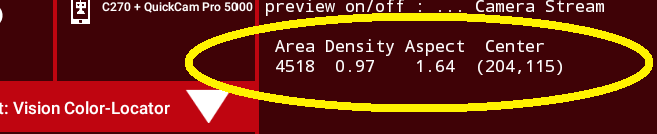
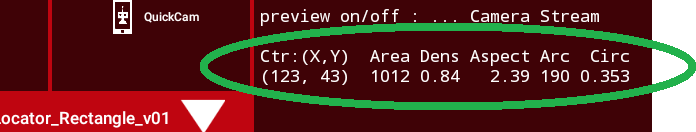
Updating other color-processing docs for new one

diff --git a/docs/source/color_processing/color-locator-discover/color-locator-discover.rst b/docs/source/color_processing/color-locator-discover/color-locator-discover.rst
@@ -75,15 +75,17 @@ Java section below:
 
       2. Click ``Create New OpMode``\ , enter a new name such as
          "ColorLocator_Monica_v01", and select the Sample OpMode
-         ``ConceptVisionColorLocator``.
+         ``ConceptVisionColorLocator_Rectangle``.
 
-      3. At the top of the Blocks screen, you can change the type from "TeleOp"
+      3. Near the beginning of the OpMode code, change `ARTIFACT_PURPLE` to `BLUE`.
+
+      4. At the top of the Blocks screen, you can change the type from "TeleOp"
          to "Autonomous", since this Sample OpMode does not use gamepads.
 
-      4. If using the built-in camera of an RC phone, drag out the relevant
+      5. If using the built-in camera of an RC phone, drag out the relevant
          Block from the left-side ``VisionPortal.Builder`` toolbox.
 
-      5. Save the OpMode, time to try it!
+      6. Save the OpMode, time to try it!
 
    .. tab-item:: Java
       :sync: java
@@ -92,15 +94,17 @@ Java section below:
 
       2. In the ``teamcode`` folder, add/create a new OpMode with a name such
          as "ColorLocator_Javier_v01.java", and select the Sample OpMode
-         ``ConceptVisionColorLocator.java``.
+         ``ConceptVisionColorLocator_Rectangle.java``.
 
-      3. At about Line 63, you can change ``@TeleOp`` to ``@Autonomous``\ ,
+      3. Near the beginning of the OpMode code, change `ARTIFACT_PURPLE` to `BLUE`.
+
+      4. At about Line 63, you can change ``@TeleOp`` to ``@Autonomous``\ ,
          since this Sample OpMode does not use gamepads.
 
-      4. If using the built-in camera of an RC phone, follow the OpMode
+      5. If using the built-in camera of an RC phone, follow the OpMode
          comments to specify that camera.
 
-      5. Click "Build", time to try it!
+      6. Click "Build", time to try it!
 
 Running the Sample OpMode
 +++++++++++++++++++++++++
@@ -197,12 +201,12 @@ In this example, the Region of Interest (ROI) contains only one Blob of the
 default target color BLUE.  You could probably move your camera to achieve the
 same result - with the help of previews.
 
-The **first column** shows the **Area**, in pixels, of the Blob (contour, not
+The **second column** shows the **Area**, in pixels, of the Blob (contour, not
 boxFit).  By default, the Sample OpMode uses a **filter** to show Blobs between
 50 and 20,000 pixels.  Also by default, the Sample uses a **sort** tool to
 display multiple Blobs in descending order of Area (largest is first).
 
-The **second column** shows the **Density** of the Blob contour.  From the
+The **third column** shows the **Density** of the Blob contour.  From the
 Sample comments:
 
 ..
@@ -212,7 +216,7 @@ Sample comments:
     contour.  The density is the ratio of Contour-area to Convex Hull-area.*
 
 
-The **third column** shows the **Aspect Ratio of the boxFit**, the best-fit
+The **fourth column** shows the **Aspect Ratio of the boxFit**, the best-fit
 rectangle around the contour:
 
 ..
@@ -226,9 +230,12 @@ rectangle around the contour:
    **tilted** at some angle, namely not horizontal.  This will be discussed
    more in a later page.
 
-The **fourth column** shows the (X, Y) position of the **Center** of the boxFit
+The **fifth column** shows the (X, Y) position of the **Center** of the boxFit
 rectangle.  With the origin at the full image's top left corner, X increases to
 the right and Y increases downward.
+
+The fifth and sixth columns are described in a later page called 
+:doc:`Color Locator (Round Blobs) <../color-locator-round-blobs/color-locator-round-blobs>`.
 
 Blob Formation
 --------------
@@ -325,6 +332,9 @@ This tutorial's next page called :doc:`Explore <../color-locator-explore/color-l
 After that, the following page called :doc:`Challenge
 <../color-locator-challenge/color-locator-challenge>` shows how to **access
 more OpenCV features** not covered in the Sample OpMode.
+
+Then a page called :doc:`Color Locator (Round Blobs)
+<../color-locator-round-blobs/color-locator-round-blobs>` covers detection of round objects.
 
 ============
 

diff --git a/docs/source/color_processing/index.rst b/docs/source/color_processing/index.rst
@@ -4,7 +4,7 @@ Color Processing Introduction
 Overview
 --------
 
-The *FIRST* Tech Challenge SDK v10.1 software now includes some **Color
+The *FIRST* Tech Challenge SDK software (as of v10.1) includes some **Color
 Processing** features from OpenCV, a popular and powerful open-source library
 for vision processing.
 
@@ -58,7 +58,8 @@ to use the Sample OpMode called ``ConceptVisionColorSensor``.
 
 For the **Color Locator** processor, the color "clusters" are called **Blobs**.
 As listed above, this tutorial offers one page on Color Blob Concepts, and
-three pages covering the Sample OpMode called ``ConceptVisionColorLocator``.
+four pages covering the Sample OpMode called ``ConceptVisionColorLocator_Rectangle`` 
+and ``ConceptVisionColorLocator_Circle``.
 
 The Sample OpModes are available in **FTC Blocks**\ , and in **Java** for use
 in OnBot Java or Android Studio.  Each programming section of this tutorial has
@@ -69,7 +70,7 @@ Next Steps
 
 Time to get started!
 
-Following this tutorial in order, first try the Sample OpMode for :doc:`Color
+Following this tutorial in order, first try the Sample OpModes for :doc:`Color
 Sensor <color-sensor/color-sensor>`.
 
 Then read about **Color Blob Concepts**\ , and try the **Color Locator** Sample

diff --git a/docs/source/color_processing/color-locator-explore/color-locator-explore.rst b/docs/source/color_processing/color-locator-explore/color-locator-explore.rst
@@ -46,12 +46,13 @@ Target Color Range
 The "target color" is actually a **range** of numerical color values, for a
 better chance of finding the desired color.
 
-Each **Swatch** name (BLUE, RED, YELLOW, GREEN) has been pre-programmed with a
+Each **Swatch** name (BLUE, RED, YELLOW, GREEN, ARTIFACT_PURPLE, ARTIFACT_GREEN) has been pre-programmed with a
 range of color values to detect most shades of that color, in most lighting
 conditions.
 
 The values for Red, Blue and Yellow were tuned for the plastic game pieces
-(called Samples) from INTO THE DEEP.
+(called Samples) from INTO THE DEEP. The values for ARTIFACT_PURPLE and ARTIFACT_GREEN
+were tuned for the plastic game pieces from DECODE.
 
 Select and read the Blocks **or** Java section below:
 
@@ -495,6 +496,8 @@ Here's a conceptual note from co-developer `@Windwoes <https://github.com/Windwo
 
 Next, this tutorial's :doc:`Challenge <../color-locator-challenge/color-locator-challenge>` page shows how to
 **access more OpenCV features** not covered in the Sample OpMode.
+
+Then a page called :doc:`Color Locator (Round Blobs) <../color-locator-round-blobs/color-locator-round-blobs>` covers detection of round objects.
 
 ============
 

diff --git a/docs/source/color_processing/color-locator-challenge/color-locator-challenge.rst b/docs/source/color_processing/color-locator-challenge/color-locator-challenge.rst
@@ -555,17 +555,9 @@ example, that can overlap if desired.
 
    Using two processors
 
-This ends the tutorial's 3 pages on ColorLocator: 
 
-* :doc:`Discover <../color-locator-discover/color-locator-discover>`, 
-* :doc:`Explore <../color-locator-explore/color-locator-explore>`, 
-* **Challenge** 
-* :doc:`Round Color Blobs <../color-locator-round-blobs/color-locator-round-blobs>`, 
-
-The final page of this tutorial provides optional info on :doc:`Color Spaces
-<../color-spaces/color-spaces>`.
-
-Best of luck as you apply these tools to your Autonomous and TeleOp OpModes!
+The next ColorLocator page called :doc:`Round Color Blobs <../color-locator-round-blobs/color-locator-round-blobs>` 
+covers detection of round objects.
 
 ============
 
